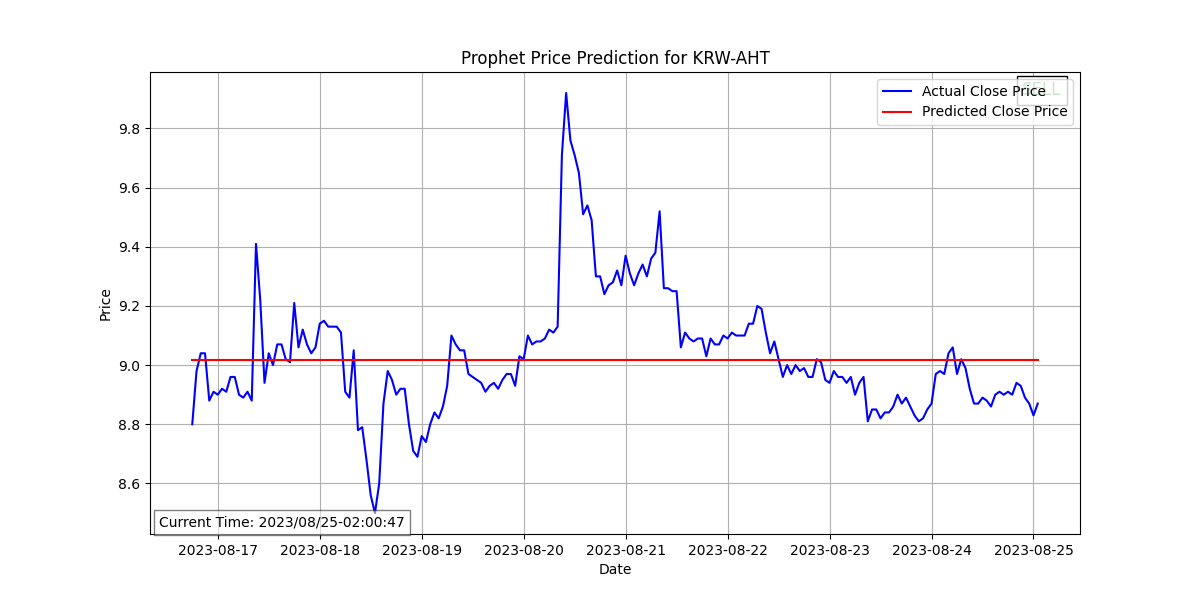
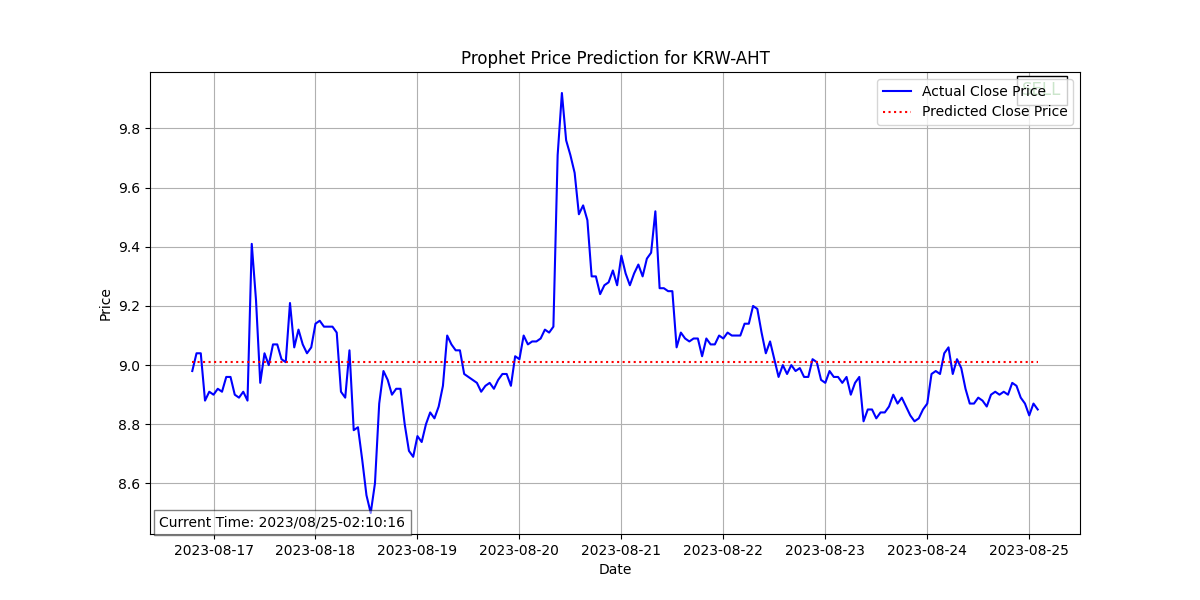
Prophet Change to Dotted-line

Changed region(s): [[0.1542, 0.15, 0.8942, 0.93]]

diff --git a/Modules/Prophet_Analyzer/Prophet_Analyzer.py b/Modules/Prophet_Analyzer/Prophet_Analyzer.py
@@ -56,7 +56,7 @@ def prophet_grph(ticker, df, predicted_close_price, current_signal):
 
     # Plot predicted close prices
     predicted_prices = [predicted_close_price] * len(df)
-    plt.plot(df['ds'], predicted_prices, label='Predicted Close Price', color='red')
+    plt.plot(df['ds'], predicted_prices, label='Predicted Close Price', color='red', linestyle='dotted')
     plt.title('Prophet Price Prediction for {}'.format(ticker))
     plt.xlabel('Date')
     plt.ylabel('Price')
